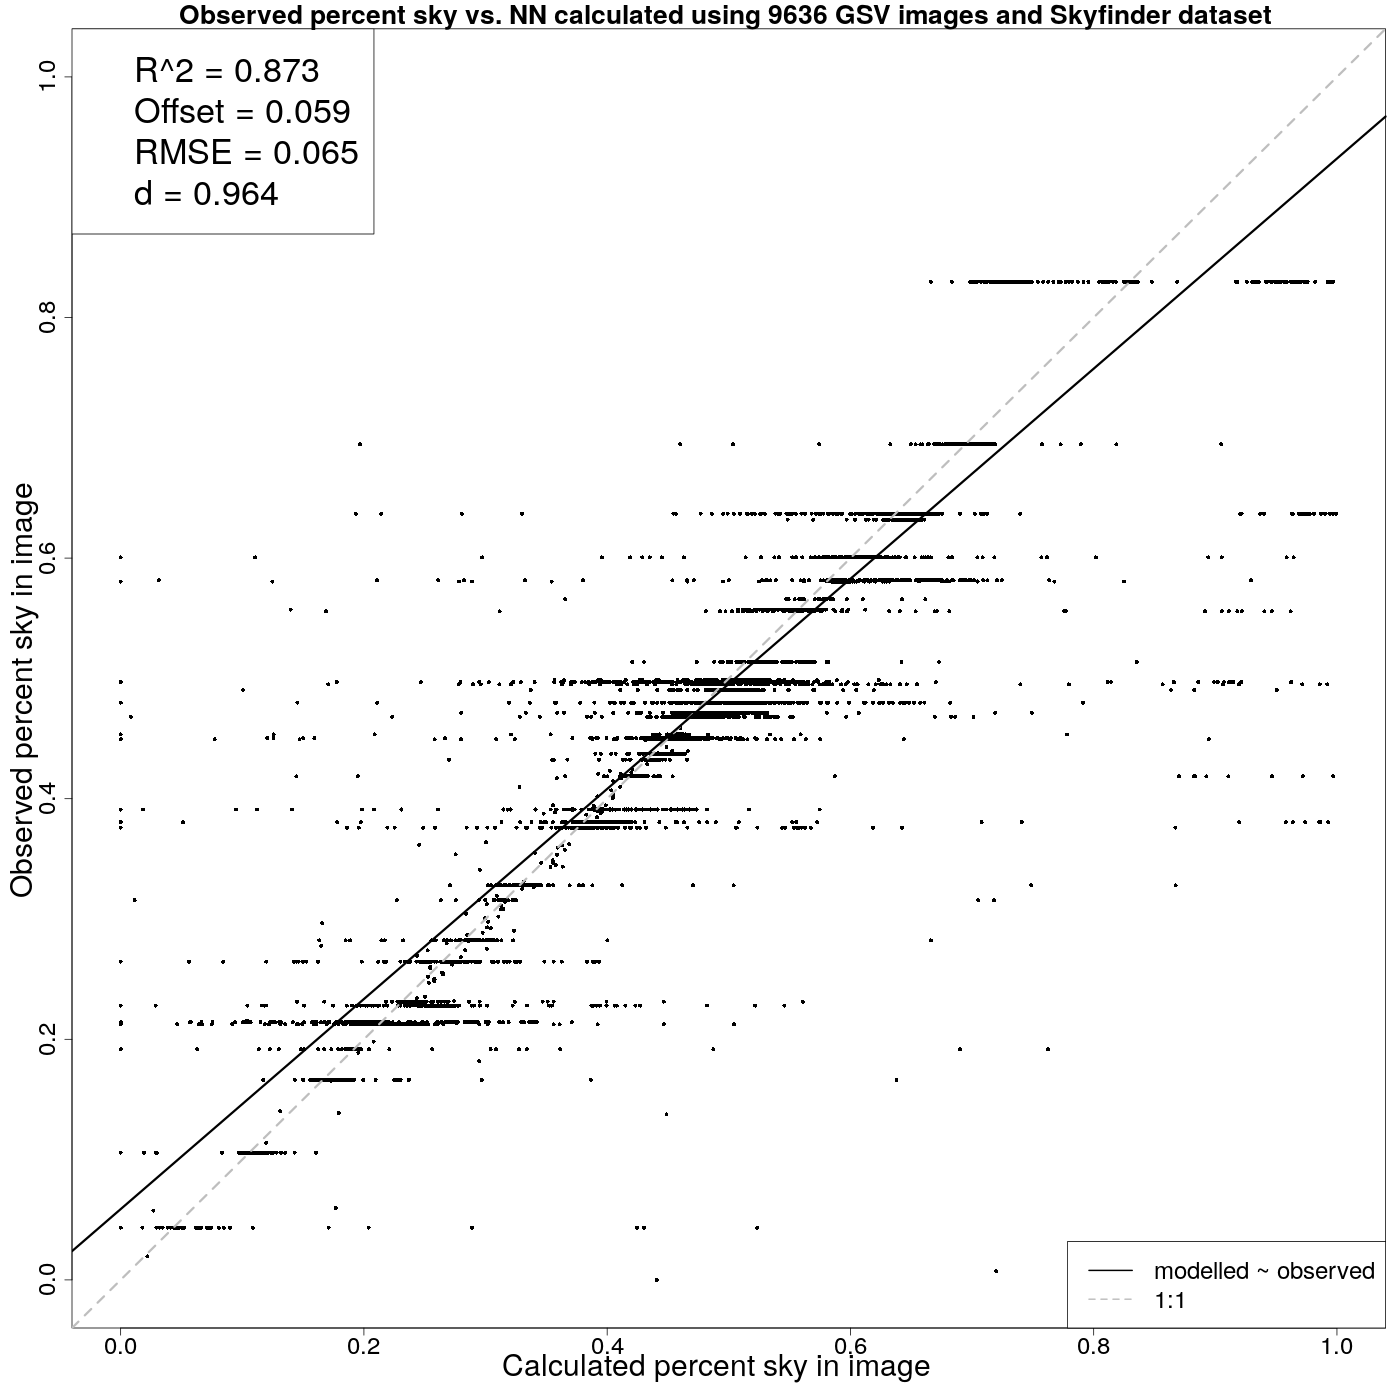
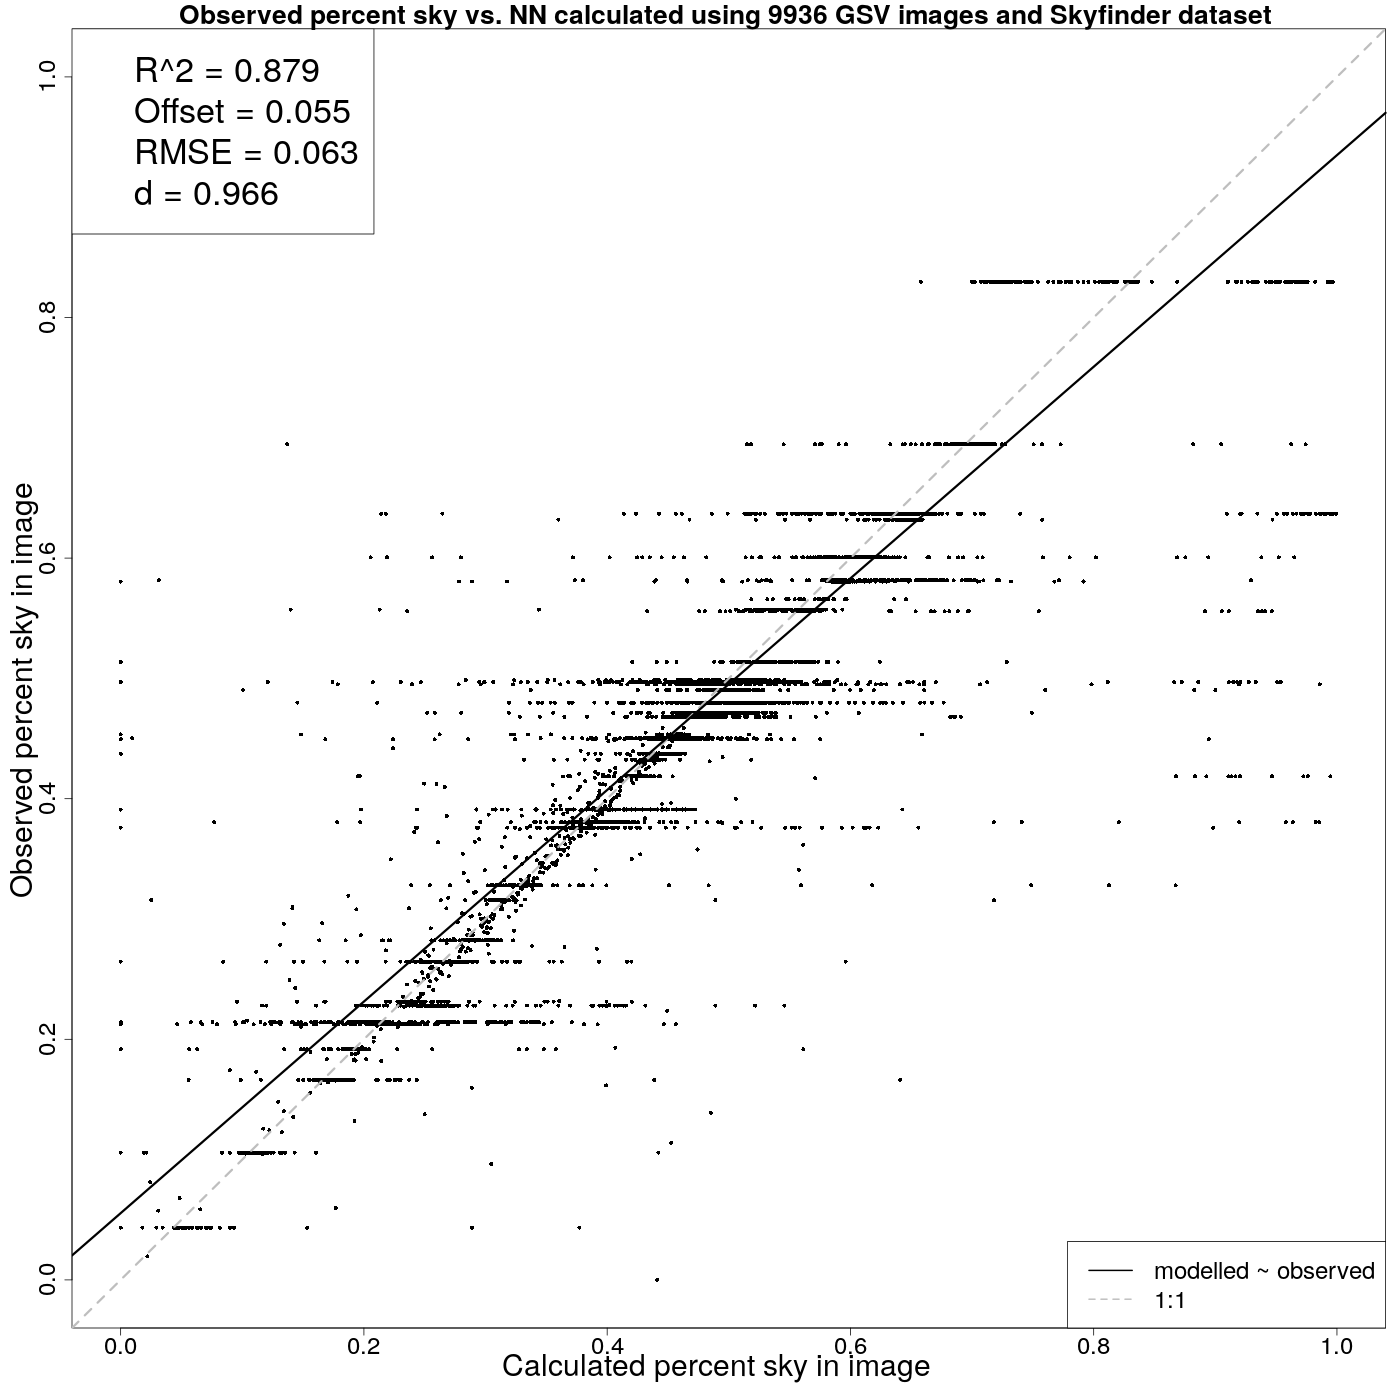
Mostly finished with the 2nd draft.

diff --git a/UrbanClimateICUC10-SVF.tex b/UrbanClimateICUC10-SVF.tex
@@ -202,6 +202,7 @@ Our sky pixel identification system used data from two main sources, the Skyfind
 Sobel  & Implementation of \cite{Wang2015a}'s Sobel operator/hybrid probability model & 6 \\	
 Mean &  Mean shift segmentation based algorithm developed by the authors &4 \\
 K-means  & K-means clustering and HSL colour filtering based algorithm developed by the authors &3 \\
+\hline
 Sobel/flood-fill  & \cite{Middel2018}'s Sobel operator/flood-fill algorithm used as benchmark &1 \\
 \hline
 \end{tabular}
@@ -363,7 +364,9 @@ K-mean\_14  & 14 & 0.4& 0.75& 0.3 & 0.95 & 0.65 & 0.2 \\
 
 \subsubsection{\cite{Middel2018} Sobel operator/flood-fill algorithm}\label{sec:floodfill}
 
-\cite{Middel2018} developed a process based on a Sobel filter \citep{Sobel1968} and flood-fill algorithm \citep{Laungrungthip2008,Middel2017}. This method was designed to calculate sky view factor from Google Street View panoramas that had the bottom half cropped off and were converted to a fisheye projection. Note, this algorithm also rescales the imagery to 512x512. All 38,521 images in the combined training and validation dataset were processed with this algorithm (sky pixels marked with white, RGB 255,255,255), compared to validation images, and results saved for a comparison with our process flow results. In our benchmark comparison, we used this system to process varied outdoor imagery, not cropped below the horizon fisheye images as this algorithm was originally designed to process. Results are shown in Figure \ref{fig:sobelflood}.
+\cite{Middel2018} developed a process based on a Sobel filter \citep{Sobel1968} and flood-fill algorithm \citep{Laungrungthip2008,Middel2017}. This method was designed to calculate sky view factor from Google Street View panoramas that had the bottom half cropped off and were converted to a fisheye projection. Note, this algorithm also rescales the imagery to 512x512. All 38,521 images in the combined training and validation dataset were processed with this algorithm (sky pixels marked with white, RGB 255,255,255), compared to validation images, and results saved for a comparison with our process flow results. 
+
+These results were kept separate from the other 13 techniques and were not included in the NN training process (see Section \ref{sec:nntraining}). Also, in this benchmark comparison, we used this system to process a varied outdoor imagery dataset, not the fisheye imagery (cropped below the horizon) this algorithm was originally designed to process. Results are shown in Figure \ref{fig:sobelflood}.
 
 
 
@@ -384,15 +387,14 @@ The Microsoft Cognitive Toolkit (CNTK) \citep{Yu2015,Agarwal2016}, with the the 
 
 \subsubsection{Neural network training}\label{sec:nntraining}    
 
-The entire dataset of 38,522 images was split into two datasets of 75\% training and 25\% validation. All training and validation images (which consisted of images of a wide variety of sizes and ratios) were rescaled to 300x300. The network was calibrated using supervised learning with the generated dataset to identify one of the 13 sky detection techniques and parameters that performed with the highest accuracy for each image. The neural network was trained for 250 epochs on a Nvidia GeForce GTX 1080 GPU, requiring about 12 hours. The neural network reached peak accuracy (errs=53.445\%; top5Errs=10.782\%) at epoch 182. To avoid overfitting and overtraining, epoch 182 was used for classification. 
+The Skyfinder dataset of 38,115 images was split into two datasets of 75\% training and 25\% validation. All training and validation images (which consisted of images of a wide variety of sizes and aspect ratios) were rescaled to 300x300. The network was calibrated using supervised learning with the generated dataset to identify one of the 13 sky detection techniques and parameters that performed with the highest accuracy for each image. Note, none of the GSV imagery was used in the NN training process.
 
-%results_per_epoch1:Finished Epoch[182 of 250]: [Validate] ce = 4.20379336 * 9636; errs = 53.445% * 9636; top5Errs = 10.782% * 9636
 
 
 
 
 \subsubsection{Neural network inference}\label{sec:nninference}    
-Using the trained model from epoch 182, inferences were performed using the 9635 images from the validation dataset. Based on the classification picked by the NN as being the most probable, the appropriate technique and parameters from that classification were used to mark the sky pixels. The marked image was compared to the validation image and accuracy calculated.
+Using the trained model, inferences were performed using the images from the validation dataset (the 25\% of images from Section \ref{sec:nntraining}) as well as the 406 GSV panoramas. Based on the classification picked by the NN as being the most probable, the appropriate technique and parameters from that classification were used to mark the sky pixels. The marked sky pixels were compared to the ground truth to assess accuracy.
 
 
 
@@ -400,10 +402,10 @@ Using the trained model from epoch 182, inferences were performed using the 9635
 
 %Overall, 38,521 images were used, 38,115 from the Skyfinder dataset and 406 from Google Street View. During the training and evaluation, the two datasets were combined then split into 28,886 training and 9635 validation images.
 
-There are three sets of results reported in this section. The first is a comparison of all of the techniques and parameters run individually against the entire combined dataset of 38,521 images. The second presents the results of 9635  validation images using our process flow with the techniques and parameters chosen by the trained NN. The third presents an evaluation of the \cite{Middel2018} Sobel/flood-fill algorithm compared to our NN chosen pathway process.
+There are three sets of results reported in this section. The first is a comparison of all of the techniques and parameters run individually against the Skyfinder and GSV datasets (for a total of 38,521 images). The second presents the results of 9636  validation images using our process flow with the techniques and parameters chosen by the trained NN. The third presents a comparison to two benchmark models: a) the \cite{Wang2015a} Sobel operator/hybrid probability model and b) the \cite{Middel2018} Sobel operator/flood-fill algorithm.
 
 \subsection{Results from all techniques}\label{sec:resultsall}
-All 14 techniques and parameter combinations were used to process the two datasets of the 38,115 Skyfinder, 407 GSV images, and the 38,521 combined dataset. A summary of R$^{2}$ and RMSE statistics for evaluations against the three datasets is presented in Table \ref{tab:evalall}. Plots of a number of the better performing techniques are presented in Figure \ref{fig:errorallcombined}. Note, the strong horizontal lines in these figures are due to the nature of the dataset that contain large groups of the same scenes (with the same percentage of sky) under different lighting and weather conditions, resulting in a wide range of calculated results.
+All the technique and parameter variations were used to process the two datasets of the 38,115 Skyfinder, 407 GSV images. A summary of R$^{2}$ and RMSE statistics for evaluations against the two datasets is presented in Table \ref{tab:evalall}. Plots of a number of the better performing techniques are presented in Figure \ref{fig:errorallcombined}. Note, the strong horizontal lines in these figures are due to the nature of the dataset that contain large groups of the same scenes (with the same percentage of sky) under different lighting and weather conditions, resulting in a wide range of calculated results.
 
 \begin{table}[!htbp]
 \caption{\bf Evaluation of all techniques and parameters for Skyfinder dataset and GSV dataset. \label{tab:evalall}}     
@@ -441,8 +443,18 @@ Sobel/flood-fill&0.134&0.211&0.067&0.312 \\
 \end{figure}
 
 \subsection{Results from neural network classified techniques}\label{sec:resultsnn}
-Figure \ref{fig:errorplots} presents a theoretical best case. If the NN was 100\% accurate in picking the best technique from the thirteen possible combinations based on its training, a RMSE of 0.026 and 0.02 is possible against the 38,115 Skyfinder images and 407 GSV images respectively. However, the NN only achieved an accuracy of errs=53.445\% and top5Errs=10.782\% for the 13 classifications. Figure \ref{fig:errorplotscntk} shows the overall accuracy of the NN chosen pathway process flow against the 9636 validation images, with a RMSE of 0.065 and R$^{2}$ of 0.873. Samples of the imagery used in training for selected classifications are shown in Figure \ref{fig:classImages}. As can be seen in this figure, there are no strong visual themes in each of the classifications (i.e. all very cloudy, clear blue sky, or multi-coloured sky). However, as the classification results were more of a continuum, where some techniques did slightly better than others, the neural network is required to classify the images on more subtle features not readily visible to the eye. This can also explain the relatively low accuracy of the neural network. However, as will be seen in the results, picking the exact best method is not necessary as long as one of the better methods is picked for each image.
+Figure \ref{fig:errorplots} presents a theoretical best case. If the NN was 100\% accurate in picking the best technique from the thirteen possible combinations based on its training, a RMSE of 0.026 and 0.02 is possible against the 38,115 Skyfinder images and 406 GSV images respectively. 
 
+\begin{figure}
+\centering
+\textbf{a)}\includegraphics[scale=0.15]{Images/ErrorPlots1Combined.png}
+\textbf{b)}\includegraphics[scale=0.15]{Images/ErrorPlotsCNTK.png}
+\caption{\textbf{
+Theoretical best case results if the NN is 100\% accurate for a) Skyfinder and GSV datasets. b) Results of NN picks against the 9636 validation images.}}
+\label{fig:errorplotscntk} \label{fig:errorplots}
+\end{figure}
+
+Samples of the imagery used in training for selected classifications are shown in Figure \ref{fig:classImages}. As can be seen in this figure, there are no strong visual themes in each of the classifications (i.e. all very cloudy, clear blue sky, or multi-coloured sky), however the NN is able to pick up on  more subtle features not readily visible to the eye. 
 
 \begin{figure}
 \centering
@@ -455,28 +467,49 @@ a) Mean\_7\_8\_300, b) Mean\_7\_6\_100, c) K-mean\_6, d) Sobel\_70.}}
 \label{fig:classImages}
 \end{figure}
 
+The neural network was trained for 250 epochs on a Nvidia GeForce GTX 1080 GPU, requiring about 12 hours. The neural network reached peak error rate of 46.2\% in choosing between the 13 classifications. However, as the classification results were more of a continuum, where some techniques did only slightly better than others, a strictly binary choice is not always necessary. Breaking down the accuracy with this in mind, the NN reached 52.6\% accuracy in picking the best method, 18.9\% accurate in picking the second best method, and 10.5\% in picking the third best method (for a total of the three of 82.0\%)
+
+Figure \ref{fig:errorplotscntk} shows the overall accuracy of the NN chosen pathway process flow against the 9636 validation images, with a RMSE of 0.063 and R$^{2}$ of 0.879. The accuracy of the NN has impacted the overall accuracy of the system (i.e. not reaching the theoretical accuracy of 0.026 or 0.02 RMSE), but the results are still very good. 
 
 
-\begin{figure}
-\centering
-\textbf{a)}\includegraphics[scale=0.15]{Images/ErrorPlots.png}
-\textbf{b)}\includegraphics[scale=0.15]{Images/ErrorPlots2.png}
-\textbf{c)}\includegraphics[scale=0.15]{Images/ErrorPlots1Combined.png}
-\caption{\textbf{Theoretical best case results if the NN is 100\% accurate for a) Skyfinder, b) GSV datasets, and c) combined datasets.}}
-\label{fig:errorplots}
-\end{figure}
 
 
-\begin{figure}
-\centering
-\includegraphics[scale=0.15]{Images/ErrorPlotsCNTK.png}
-\caption{\textbf{Results of NN picks against the 9636 validation images.}}
-\label{fig:errorplotscntk}
-\end{figure}
+
+%  Finished Epoch[249 of 250]: [Validate] ce = 3.94070510 * 9529; errs = 46.259% * 9529; top5Errs = 7.923% * 9529
+%first best=5227 = 0.52606682769726247987
+%second best=1878 = 0.18900966183574879227
+%third best=1049 = 0.10557568438003220611
+%not best=1782 = 0.17934782608695652173
+%total=9936
+%   first accuracy 52.6%, second 18.9%, third 10.5%, total of three 82.0%
 
 
-\subsection{Results from Sobel/flood-fill evaluation}\label{sec:resultsflood}
-Finally, in an evaluation of the Sobel/flood-fill algorithm, results from the combined 38,520 image dataset and 9636 validation images are shown in Figure \ref{fig:errorfloodall}. This algorithm shows a RMSE of 0.212 and R$^{2}$ of 0.13 against the combined dataset and a RMSE of 0.205 and R$^{2}$ of 0.15 against the validation dataset.
+
+
+
+%\begin{figure}
+%\centering
+%%\textbf{a)}\includegraphics[scale=0.15]{Images/ErrorPlots.png}
+%%\textbf{b)}\includegraphics[scale=0.15]{Images/ErrorPlots2.png}
+%\includegraphics[scale=0.15]{Images/ErrorPlots1Combined.png}
+%\caption{\textbf{Theoretical best case results if the NN is 100\% accurate for a) Skyfinder, b) GSV datasets, and c) combined datasets.}}
+%\label{fig:errorplots}
+%\end{figure}
+
+
+%\begin{figure}
+%\centering
+%\includegraphics[scale=0.15]{Images/ErrorPlotsCNTK.png}
+%\caption{\textbf{Results of NN picks against the 9636 validation images.}}
+%\label{fig:errorplotscntk}
+%\end{figure}
+
+\subsection{Benchmark results}
+\subsubsection{Results from the \cite{Wang2015a} Sobel operator/hybrid probability model}
+These results have previously been presented in Table \ref{tab:evalall} and Figure \ref{fig:errorallcombined}. The best performing variation (Sobel\_70) for the Skyfinder data resulted in a RMSE of 0.134 and R$^{2}$ of 0.396 while the best performing variation (Sobel\_80) for the GSV data resulted in a RMSE of 0.07 and R$^{2}$ of 0.433.
+
+\subsubsection{Results from the \cite{Middel2018} Sobel operator/flood-fill algorithm evaluation}\label{sec:resultsflood}
+In the evaluation of the Sobel/flood-fill algorithm, results from the Skyfinder and GSV datasets and 9636 validation images are shown in Figure \ref{fig:errorfloodall} and Table \ref{tab:evalall}. This algorithm shows a RMSE of 0.211 and R$^{2}$ of 0.134 against with the Skyfinder images, a RMSE of 0.312 and R$^{2}$ of 0.067 against with the GSV images, and a RMSE of 0.205 and R$^{2}$ of 0.15 against the validation dataset. The results from the evaluation of GSV imagery showed a large number of images miss marked as 100\% sky, inflating the error rate for this dataset. A similar problem was seen with the Skyfinder images, many of them were miss marked as 0\% sky.
 
 
 \begin{figure}
@@ -489,22 +522,32 @@ Finally, in an evaluation of the Sobel/flood-fill algorithm, results from the co
 
 
 \section{Discussion and conclusion}\label{sec:conclusion}
-The results from Section \ref{sec:resultsall} show that no single technique and parameter combination performs sky pixel identification with high accuracy across the dataset used by this project. This dataset contains wide variety of outdoor scenes with a wide range of lighting and weather conditions (as can be seen in some of the sample images in Figure \ref{fig:classImages}), challenging many of the techniques. 
 
-At best, all show error rates no better than 10\%, with some having their overall error rates at 20 and 30 percents. However, for some individual images, even the poorest performing techniques excelled compared to all of the other techniques. This validates the need to have an adaptive process that can respond to the specific challenges each image presents to deliver overall better results than any single algorithm.
+In comparison to published methods, the adaptive process performs well. Our accuracy of RMSE of 0.063 compares well to the RMSE of 0.205 for the \cite{Middel2018} Sobel/flood-fill algorithm and the best performing \cite{Wang2015a} Sobel variations, Sobel\_70 and Sobel\_80, which achieved an RMSE of 0.134 and 0.07.
 
 
-In addition, having a range of combinations of techniques was important for the overall accuracy. An attempt was made to reduce the number of classifications to possibly increase the accuracy of the NN. While the theoretical accuracy from the 13 classes was a RMSE of 0.026, combinations of the best performing three or four classes saw reduced theoretical accuracy reduced to RMSEs of 0.039 (for Mean\_7\_6\_100, K-mean6, and Sobel\_70), 0.045 (for Mean\_3\_6\_100, K-mean6, and Sobel\_70), 0.036 (for Mean\_7\_6\_100, Mean\_7\_6\_100, K-mean6, and Sobel\_70), or 0.095 (for all Mean combinations). 
+The results from Section \ref{sec:resultsall} show that no single technique and parameter combination performs sky pixel identification with high accuracy across the dataset used by this project. This dataset contains a wide variety of outdoor scenes with a wide range of lighting and weather conditions (as can be seen in some of the sample images in Figure \ref{fig:classImages}), challenging many of the techniques. 
 
-The attempt to increase the accuracy of the NN predictions highlights one of the limitations of this study. 53\% error in picking between 13 classes shows that there is much room for improvement. NNs perform best when they are trained with a large amounts of data. It this study, there were only 28,885 images in the training dataset. With a larger training dataset, resulting in a lower NN error rate, it would be possible to come closer to the theoretical RMSE of 0.026 for the sky pixel identification.
+It was expected that all the algorithms would perform better with GSV imagery, due to their regularity. These images would have been captured with the same type of equipment, using the same camera angles (horizon at 50\% image height), under clear sky or partly cloudy conditions. The results show that almost all of the variations perform better with the GSV data than the Skyfinder. Some of the variations even approaches the accuracy of our system with the GSV data, for example Sobel\_80. 
 
-Even with these limitations, in comparison to published methods, the adaptive process performs well. Our accuracy of RMSE of 0.065 compares well to the RMSE of 0.205 for the Sobel/flood-fill and the best performing Sobel (Sobel\_70) which achieved an RMSE of 0.133.
+However, the Skyfinder dataset challenged all of the variations with the Mean and Sobel based methods achieving no better than 0.1 to 0.2 RMSE. However, for some individual images, even the poorest performing techniques excelled compared to all of the other techniques. This validates the need to have an adaptive process that can respond to the specific challenges each image presents to deliver overall better results than any single algorithm.
+
+Having a range of combinations of techniques was important for the overall accuracy. Experimentation was preformed to reduce the number of classifications to to possibly increase the accuracy of the NN (reducing the number of the required classifications choices). However, even removing some of the worst performing methods (many of the K-means variations), the overall accuracy degraded. While some of the variations had very low accuracy overall, in processing some images, they were the best choice and having those available overrode the lower accuracy in the NN picking the exact best choice.
+
+While the theoretical accuracy from the 13 classes was a RMSE of 0.026, combinations of the best performing three or four classes saw reduced theoretical accuracy reduced to RMSEs of 0.039 (for Mean\_7\_6\_100, K-mean6, and Sobel\_70), 0.045 (for Mean\_3\_6\_100, K-mean6, and Sobel\_70), 0.036 (for Mean\_7\_6\_100, Mean\_7\_6\_100, K-mean6, and Sobel\_70), or 0.095 (for all Mean combinations). 
+
+This attempt to increase the accuracy of the NN predictions highlights a limitation of this study. 53\% error in picking between 13 classes shows that there is room for improvement. NNs perform best when they are trained with a large amounts of data. It this study, there were only 28,000 images in the training dataset. With a larger training dataset, resulting in a lower NN error rate, it would be possible to come closer to the theoretical RMSE of 0.026 for the sky pixel identification.
+
+In our linked Data in Brief article \citep{Nice2019Data}, we provide our trained NN, used to infer the best algorithm for any type of outdoor imagery, as well as all the training and validation imagery used in this study. This system can then be used out of the box. Or with our flexible framework, new algorithms and variations of existing algorithms can be added to the system to handle new imagery with greater accuracy. 
+
+In conclusion, we present a system of sky pixel identification that shows high accuracy rates with varied and challenging outdoor imagery. This system sits, on one side, between algorithms that can be quickly set up and run, such as \cite{Middel2018}, but that are not as accurate with challenging datasets. On the other side of complexity are systems, such as \cite{Gong2018}, requiring a more complex trained deep learning algorithm. Our adaptive system uses the best elements of each in pursuit of the most accurate results possible.
+
+
 
 
 \section{Code and availability and licensing}\label{sec:available}
 Code and data are available from the corresponding author on request.
 
-Data \citep{Nice2019Data}
 
 %TARGET is distributed under the Creative Commons Attribution-NonCommercial-ShareAlike 4.0 Generic (CC BY-NC-SA 4.0). TARGET code cannot be used for commercial purposes. It is available in two versions, Python or Java. The Python code can be downloaded from https://doi.org/10.5281/zenodo.1300023 or Java code is available at  https://zenodo.org/record/1310138. We recommend using the Java version as it runs faster than the Python code. 
 
